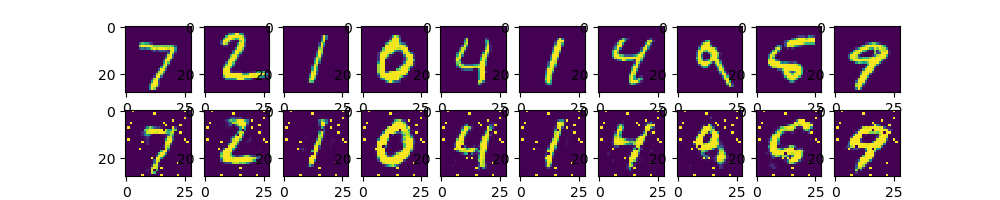
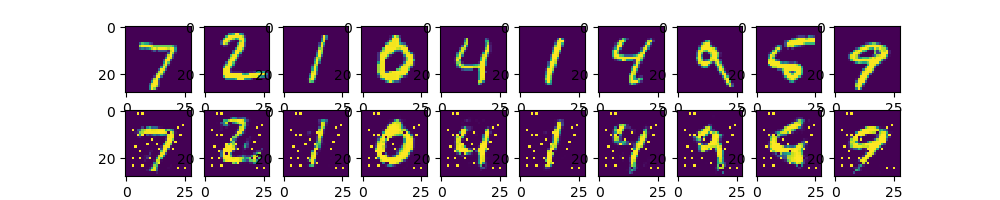
auto encoder + sofmax classifier

Changed region(s): [[0.217, 0.57, 0.899, 0.87], [0.124, 0.6, 0.186, 0.87], [0.279, 0.81, 0.341, 0.84]]

diff --git a/autoencoder with softmax.py b/autoencoder with softmax.py
@@ -1,0 +1,88 @@
+import tensorflow as tf
+import numpy as np
+import matplotlib.pyplot as plt
+
+from tensorflow.examples.tutorials.mnist import input_data
+
+mnist = input_data.read_data_sets('/tmp/data/', one_hot=True)
+
+learning_rate_RMSprob = 0.02
+learning_rate_GradientDescent = 0.5
+num_epochs = 100
+batch_size = 256
+display_step = 1
+input_size = 784
+hidden1_size = 128
+hidden2_size = 64
+
+x = tf.placeholder(tf.float32, shape=[None, input_size])
+y = tf.placeholder(tf.float32, shape=[None, 10])
+
+def building_autoencoder(x):
+    Wh_1 = tf.Variable(tf.random_normal([input_size, hidden1_size]))
+    bh_1 = tf.Variable(tf.random_normal([hidden1_size]))
+    H1_output = tf.nn.sigmoid(tf.matmul(x, Wh_1) + bh_1)
+
+    Wh_2 = tf.Variable(tf.random_normal([hidden1_size, hidden2_size]))
+    bh_2 = tf.Variable(tf.random_normal([hidden2_size]))
+    H2_output = tf.nn.sigmoid(tf.matmul(H1_output, Wh_2) + bh_2)
+
+    Wh_3 = tf.Variable(tf.random_normal([hidden2_size, hidden1_size]))
+    bh_3 = tf.Variable(tf.random_normal([hidden1_size]))
+    H3_output = tf.nn.sigmoid(tf.matmul(H2_output, Wh_3) + bh_3)
+
+    Wo = tf.Variable(tf.random_normal([hidden1_size, input_size]))
+    bo = tf.Variable(tf.random_normal([input_size]))
+    X_reconstructed = tf.nn.sigmoid(tf.matmul(H3_output, Wo) + bo)
+
+    return X_reconstructed, H2_output
+
+def softmax_classifier(x):
+    W_sofmax= tf.Variable(tf.zeros([hidden2_size, 10]))
+    b_softmax= tf.Variable(tf.zeros([10]))
+
+    y_pred = tf.nn.softmax(tf.matmul(x, W_sofmax) + b_softmax)
+
+    return y_pred
+
+y_pred, extracted_features =building_autoencoder(x)
+
+y_true = x
+
+y_pred_softmax = softmax_classifier(extracted_features)
+
+pretraing_loss = tf.reduce_mean(tf.pow(y_true - y_pred,2))
+pretraing_train_step = tf.train.RMSPropOptimizer(learning_rate_RMSprob).minimize(pretraing_loss)
+
+finetunnig_loss = tf.reduce_mean(-tf.reduce_sum(y* tf.log(y_pred_softmax), reduction_indices=[1]))
+finetuning_train_step = tf.train.GradientDescentOptimizer(learning_rate_GradientDescent).minimize(finetunnig_loss)
+
+with tf.Session() as sess:
+    sess.run(tf.global_variables_initializer())
+
+    total_batch = int(mnist.train.num_examples/batch_size)
+
+    for epoch in range(num_epochs):
+
+         for i in range(total_batch):
+             batch_xs, batch_ys = mnist.train.next_batch(batch_size)
+             _, pretraing_loss_print = sess.run([pretraing_train_step, pretraing_loss], feed_dict={x: batch_xs})
+         if epoch % display_step == 0:
+             print('반복: %d, Pretraing 손실함수(pretraing_loss): %f' % ((epoch+1),pretraing_loss_print))
+    print("Step1 : Mnist 데이터 재구축을 위한 오토인코더 최적화 완료(Pre_Training")
+
+    for epoch in range(num_epochs + 100):
+
+        for i in range(total_batch):
+            batch_xs, batch_ys = mnist.train.next_batch(batch_size)
+            _, finetunig_loss_print = sess.run([finetuning_train_step,finetunnig_loss],
+                                                feed_dict={x: batch_xs, y: batch_ys})
+        if epoch % display_step == 0:
+            print("반복(epoch):%d, Fine-Tuning 손실함수(finetuning_loss):%f" % ((epoch + 1), finetunig_loss_print))
+    print("Step2: Mnist 데이터 분류를 위한 오토인코더 + Softmax 분류기 최적화 완료(Fine-Tuning)")
+
+
+    corret_prediction= tf.equal(tf.argmax(y,1),tf.argmax(y_pred_softmax,1))
+    accuracy = tf.reduce_mean(tf.cast(corret_prediction, tf.float32))
+
+    print("정확도(오토인코더 + Softmax 분류기:%f" % sess.run(accuracy, feed_dict={x: mnist.test.images, y: mnist.test.labels}))
